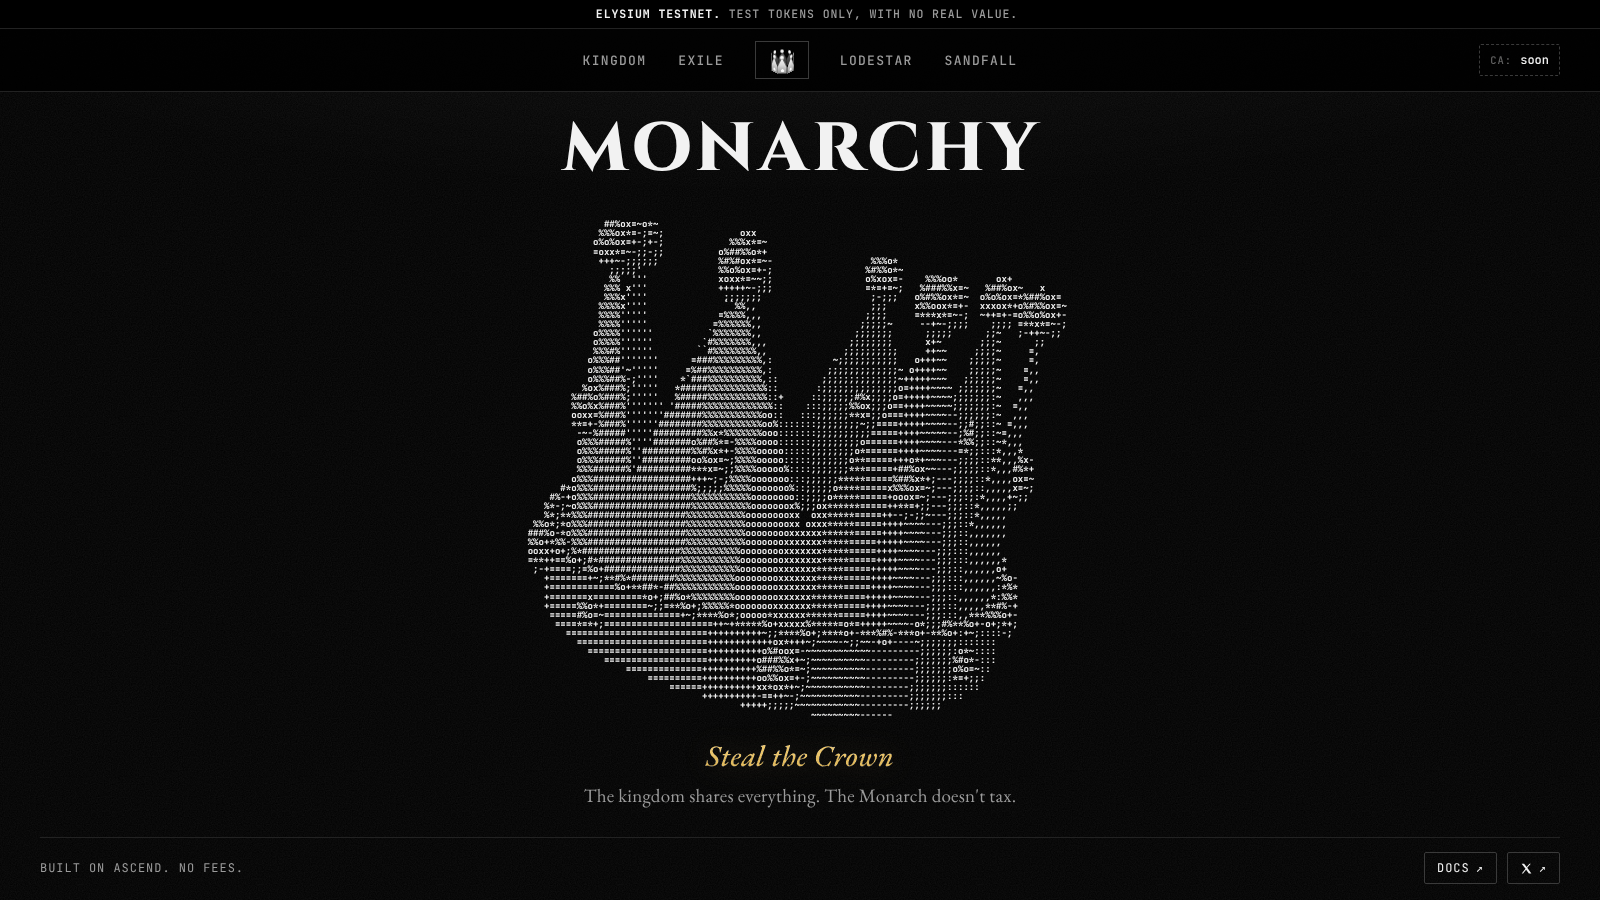
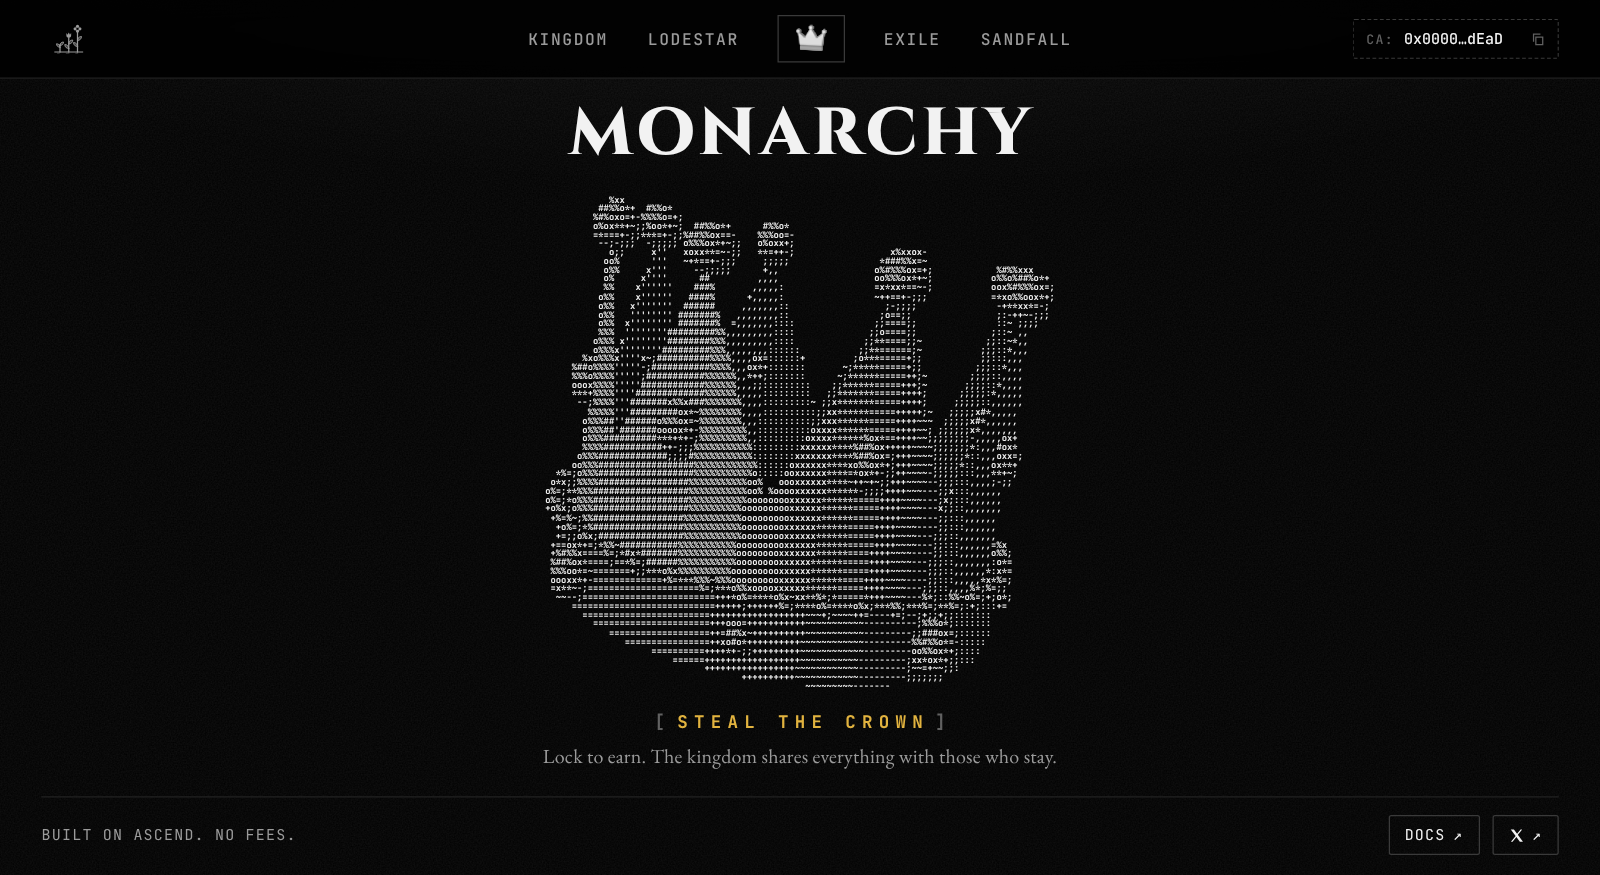
Lead with lock to earn and creator control

diff --git a/web/src/pages/Kingdom.tsx b/web/src/pages/Kingdom.tsx
@@ -62,8 +62,9 @@ export function KingdomPage() {
           Kingdom
         </h1>
         <p>
-          Every token launched on Ascend can run its own kingdom. Creator fees are burned, bought back, paid to locked holders or
-          streamed to the team, all in the open, and Monarchy keeps none of it.
+          Every token launched on Ascend can run its own kingdom, by its own rules. Holders who lock earn a share of every fee,
+          more the longer they lock, and the creator decides how the rest is burned, bought back or streamed to the team. All of
+          it happens in the open, and Monarchy keeps none of it.
         </p>
       </div>
 
@@ -76,12 +77,17 @@ export function KingdomPage() {
         </li>
         <li className="seal">
           <span className="seal-text">
-            <b>No sweep.</b> Funds only go where the contracts say, and a router moves only after 7 days' notice.
+            <b>Lock to earn.</b> Holding alone earns nothing. Longer locks earn a bigger share of every fee.
           </span>
         </li>
         <li className="seal">
           <span className="seal-text">
-            <b>12 hour timelock</b> on every split or tier change.
+            <b>Your rules, in public.</b> Each token sets its own split, burns and tiers, and every change waits 12 hours.
+          </span>
+        </li>
+        <li className="seal">
+          <span className="seal-text">
+            <b>No sweep.</b> Funds only go where the contracts say, and a router moves only after 7 days' notice.
           </span>
         </li>
       </ul>
@@ -143,8 +149,8 @@ export function KingdomPage() {
             )
           }
         >
-          Holds your token's Ascend creator role. You keep your dev buy. Fees split by your percentages into buyback and burn,
-          holder rewards and a Team Treasury.
+          Holds your token's Ascend creator role, and you keep your dev buy. You set the rules: the split between buyback and
+          burn, lockers and a Team Treasury, where token-side fees go, and the lock tiers.
         </Feature>
         <Feature
           to="/exile"
@@ -163,8 +169,8 @@ export function KingdomPage() {
             )
           }
         >
-          Lock tokens, v2 LP and NFTs. Locks can be extended, never shortened or cancelled. Longer locks earn a bigger share,
-          paid as a {dayLabel(drip)} drip.
+          Lock to earn. Holding alone earns nothing, and longer locks earn a bigger share, paid as a {dayLabel(drip)} drip.
+          Locks can be extended, never shortened or cancelled, and work for v2 LP and NFTs too.
         </Feature>
         <Feature
           to="/sandfall"

diff --git a/web/index.html b/web/index.html
@@ -3,8 +3,8 @@
   <head>
     <meta charset="UTF-8" />
     <meta name="viewport" content="width=device-width, initial-scale=1.0, viewport-fit=cover" />
-    <title>Monarchy | Fee routing, locks and vesting for Ascend</title>
-    <meta name="description" content="Fee routing, locks and vesting for tokens launched on Ascend, with no fees. Creator fees are burned, bought back, paid to locked holders or streamed to the team, all in the open." />
+    <title>Monarchy | Lock to earn on Ascend</title>
+    <meta name="description" content="Lock to earn on Ascend. Holders who lock earn a share of every creator fee, more the longer they lock, and each token sets its own split, burns and tiers in the open. No fees." />
     <meta name="theme-color" content="#000000" />
     <link rel="preconnect" href="https://fonts.googleapis.com" />
     <link rel="preconnect" href="https://fonts.gstatic.com" crossorigin />
@@ -15,7 +15,7 @@
     <meta property="og:type" content="website" />
     <meta property="og:site_name" content="Monarchy" />
     <meta property="og:title" content="Monarchy | Ascend to Monarchy" />
-    <meta property="og:description" content="The kingdom shares everything. The Monarch doesn't tax." />
+    <meta property="og:description" content="Lock to earn. The kingdom shares everything with those who stay." />
     <meta property="og:url" content="https://monarchy.fi/" />
     <meta property="og:image" content="https://monarchy.fi/og.png?v=2" />
     <meta property="og:image:width" content="1200" />
@@ -23,7 +23,7 @@
     <meta property="og:image:alt" content="The word Monarchy over a castle and town drawn in text characters" />
     <meta name="twitter:card" content="summary_large_image" />
     <meta name="twitter:title" content="Monarchy | Ascend to Monarchy" />
-    <meta name="twitter:description" content="The kingdom shares everything. The Monarch doesn't tax." />
+    <meta name="twitter:description" content="Lock to earn. The kingdom shares everything with those who stay." />
     <meta name="twitter:image" content="https://monarchy.fi/og.png?v=2" />
   </head>
   <body>

diff --git a/web/src/styles.css b/web/src/styles.css
@@ -304,7 +304,7 @@ p.small { margin: 10px 0 0; line-height: 1.5; }
 .card-head h3 { font-size: 14px; display: inline-flex; align-items: center; gap: 8px; text-transform: uppercase; letter-spacing: 0.1em; }
 .card-head h3::before { content: "▍"; color: var(--white); margin-right: -2px; }
 /* the Kingdom page: promises, tool cards */
-.seals { list-style: none; padding: 0; margin: 0; display: grid; grid-template-columns: 1.3fr 1fr 1fr; border: 1px solid var(--line); background: var(--card); }
+.seals { list-style: none; padding: 0; margin: 0; display: grid; grid-template-columns: 1fr 1.2fr 1.2fr 1.2fr; border: 1px solid var(--line); background: var(--card); }
 .seal { display: flex; align-items: center; gap: 14px; padding: 16px 18px; color: var(--muted); font-size: 14px; line-height: 1.45; }
 .seal + .seal { border-left: 1px solid var(--line); }
 .seal b { color: var(--text); }
@@ -653,6 +653,13 @@ input[type="checkbox"], input[type="radio"] { accent-color: var(--white); width:
 .foot-links a:first-child { color: var(--text); }
 
 /* ------------------------------------------------------------------ responsive */
+/* four seals squeeze the 0% one on mid-width screens, so they go two by two there */
+@media (max-width: 1200px) and (min-width: 961px) {
+  .seals { grid-template-columns: 1fr 1fr; }
+  .seal:nth-child(odd) { border-left: 0; }
+  .seal:nth-child(n + 3) { border-top: 1px solid var(--line); }
+}
+
 @media (max-width: 960px) {
   .flow-body { grid-template-columns: 1fr; justify-items: stretch; gap: 0; }
   .flow-arrow, .flow-arrow-split { display: block; margin: 8px auto; }

diff --git a/web/src/pages/Lodestar.tsx b/web/src/pages/Lodestar.tsx
@@ -42,9 +42,9 @@ export function LodestarPage() {
           Lodestar
         </h1>
         <p className="muted">
-          A fee router for one Ascend token. It holds the token's creator role, so every creator fee lands here. Anyone
-          can route it. Token-side fees are paid to Exile lockers, or, if the creator chooses, all burned. Quote-side
-          fees split between buyback and burn, holder rewards in Exile and a Team Treasury streamed through Sandfall.
+          Your token, your rules. A Lodestar holds your token's creator role and routes every fee the way you set it: to
+          Exile lockers, into buyback and burn, or to a Team Treasury streamed through Sandfall. You pick the split, where
+          token-side fees go and the lock tiers, and anyone can trigger a distribute. Later changes wait 12 hours, in public.
           No fees.
         </p>
       </header>

diff --git a/web/src/pages/Exile.tsx b/web/src/pages/Exile.tsx
@@ -58,8 +58,9 @@ export function ExilePage() {
           Exile
         </h1>
         <p className="muted">
-          Lock tokens, LP or NFTs. A lock can be extended but never shortened, cancelled or transferred. Longer
-          locks earn a bigger share of holder rewards.
+          Lock to earn. Holding a token earns nothing; locking it earns a share of its fees, and the longer the lock, the
+          bigger the share. A lock can be extended but never shortened, cancelled or transferred. LP tokens and NFTs can be
+          locked too.
         </p>
       </header>
 

diff --git a/web/src/pages/Home.tsx b/web/src/pages/Home.tsx
@@ -12,7 +12,7 @@ export function Home() {
       <h1 className="wordmark">Monarchy</h1>
       <AsciiCrown className="landing-crown" />
       <p className="tagline">Steal the Crown</p>
-      <p className="landing-sub">The kingdom shares everything. The Monarch doesn't tax.</p>
+      <p className="landing-sub">Lock to earn. The kingdom shares everything with those who stay.</p>
       <div className="landing-links">
         <span className="landing-note">Built on Ascend. No fees.</span>
         <span className="landing-out">

diff --git a/README.md b/README.md
@@ -4,7 +4,7 @@
 
 # Monarchy
 
-### Fee routing, locks and vesting for tokens launched on Ascend
+### Lock to earn on Ascend. Every token sets its own rules.
 
 [![CI](https://github.com/monarchy-fi/monarchy/actions/workflows/ci.yml/badge.svg)](https://github.com/monarchy-fi/monarchy/actions/workflows/ci.yml)
 [![Tests: 171 passing](https://img.shields.io/badge/Foundry-171%20tests%20passing-111111.svg)](contracts/test)
@@ -13,11 +13,11 @@
 [![Protocol fees: none](https://img.shields.io/badge/protocol%20fees-none-111111.svg)](#how-it-works)
 [![License: MIT](https://img.shields.io/badge/License-MIT-111111.svg)](LICENSE)
 
-**Every creator fee burned, bought back, paid to locked holders or streamed to the team in the open. Monarchy takes nothing.**
+**Holders who lock earn a share of every creator fee, more the longer they lock. Each creator decides how the rest is burned, bought back or streamed to the team, and every change happens in public. Monarchy takes nothing.**
 
 [Website](https://monarchy.fi) · [Docs](https://docs.monarchy.fi) · [X](https://x.com/monarchyfi) · [Architecture](docs/ARCHITECTURE.md) · [Demo script](docs/DEMO.md) · [Testnet contracts](#live-on-elysium-testnet)
 
-<img src="docs/img/site-home.png" alt="The Monarchy home page: four tabs around a crown along the top with the CA chip on the right, the name MONARCHY above a large spinning crown drawn in text characters, and Steal the Crown in gold with the line The kingdom shares everything. The Monarch doesn't tax. below it" width="840" />
+<img src="docs/img/site-home.png" alt="The Monarchy home page: four tabs around a crown along the top with the CA chip on the right, the name MONARCHY above a large spinning crown drawn in text characters, and Steal the Crown in gold with the line Lock to earn. The kingdom shares everything with those who stay. below it" width="840" />
 
 </div>
 
@@ -27,7 +27,10 @@
 
 Ascend has no token, and its NFT is capped at 500. People who want a piece of Ascend usually reach for the launchpad's own token, and here there isn't one. Monarchy aims to be that token: a liquid coin whose trading fees flow back to the holders who lock it, built on the same tools it offers every other Ascend project.
 
-On Ascend the creator role collects half of every 1% swap fee, in both the token and the quote asset. Without Monarchy that money sits in one wallet, holders earn nothing for holding, and promises about buybacks or vesting can't be checked on chain. Monarchy replaces those promises with contracts.
+On Ascend the creator role collects half of every 1% swap fee, in both the token and the quote asset. Without Monarchy that money sits in one wallet, holders earn nothing for holding, and promises about buybacks or vesting can't be checked on chain. Monarchy replaces those promises with contracts, built on two ideas:
+
+- **Lock to earn.** Holding a token earns nothing on its own. Holders who lock it in Exile earn a share of every fee, by tier from Peasant (0.5x for a day) to Monarch (4x for a month), so rewards go to the people who stay, not to wallets that sell the next day.
+- **Your token, your rules.** Each creator sets the split between buyback and burn, lockers and the Team Treasury, where token-side fees go, the four lock tiers and how fast the treasury streams. Splits, routes and tiers stay adjustable, but only in public: every change waits 12 hours on chain where anyone can see it coming.
 
 ## Monarchy runs on Monarchy
 
